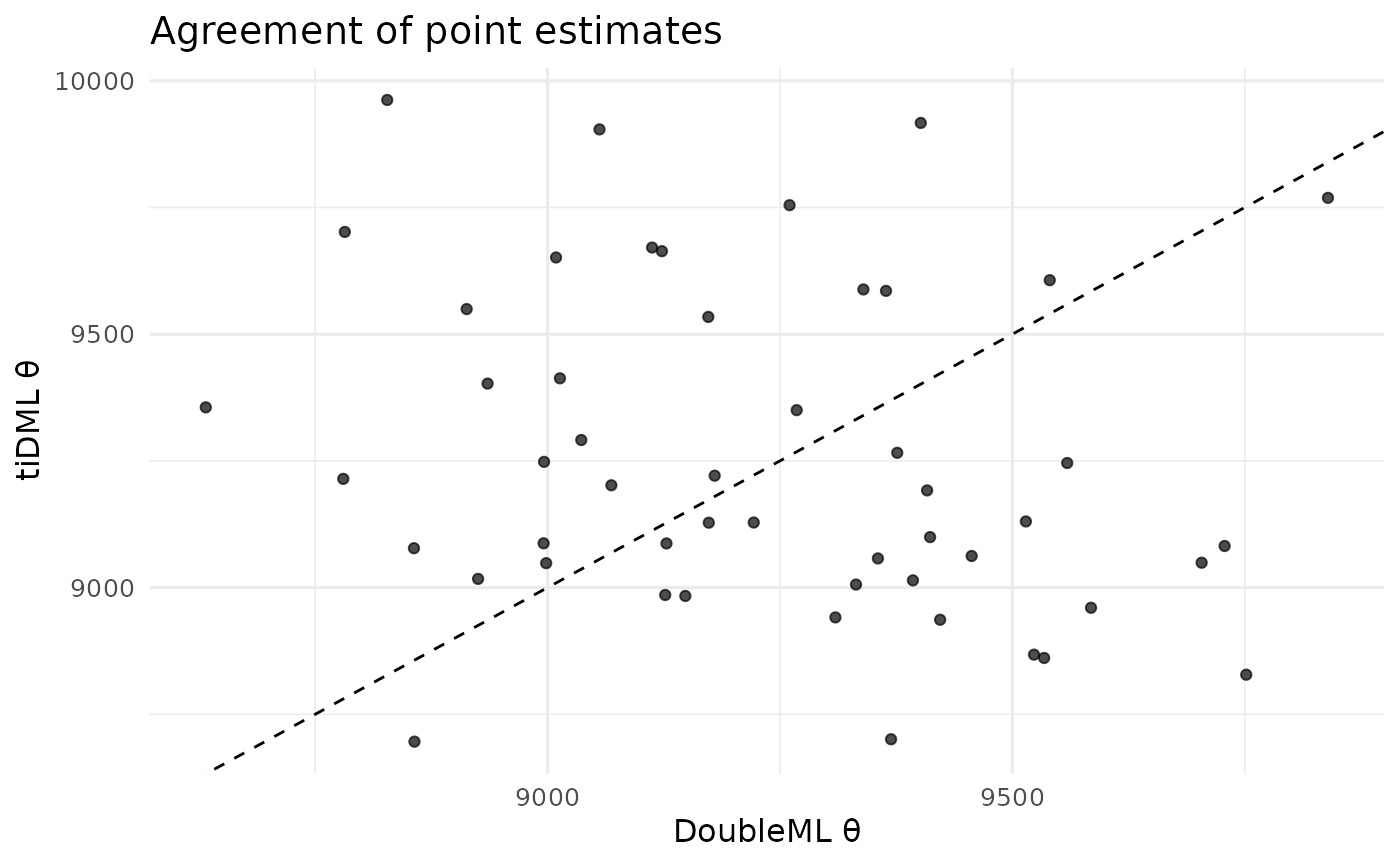
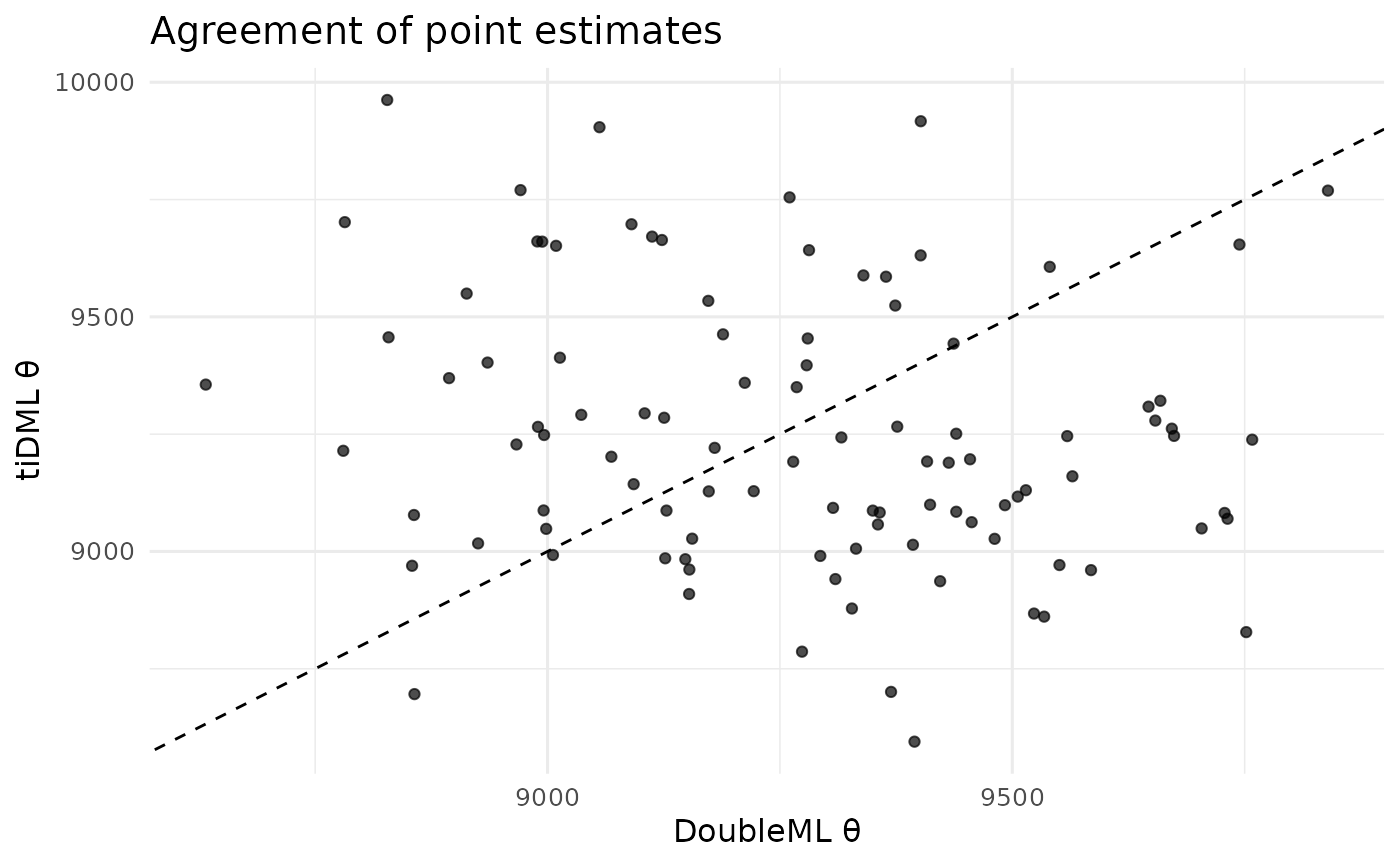
Deploying to gh-pages from @ jberesford-fe/tiDML@77b5a33b6616c6fd3b7dbd8730658f88724f5d0b 🚀

diff --git a/articles/package-replication.html b/articles/package-replication.html
@@ -39,7 +39,7 @@
   <button class="nav-link dropdown-toggle" type="button" id="dropdown-articles" data-bs-toggle="dropdown" aria-expanded="false" aria-haspopup="true">Articles</button>
   <ul class="dropdown-menu" aria-labelledby="dropdown-articles">
 <li><a class="dropdown-item" href="../articles/package-replication.html">Package Replication</a></li>
-    <li><a class="dropdown-item" href="../articles/Quick-start.html">Quick-start</a></li>
+    <li><a class="dropdown-item" href="../articles/Quick-start.html">Quick Start</a></li>
     <li><a class="dropdown-item" href="../articles/User-defined-recipies.html">User Defined Recipies</a></li>
   </ul>
 </li>
@@ -122,7 +122,7 @@
 <span>    <span class="op">)</span></span>
 <span></span>
 <span>  <span class="co">## DoubleML :: PLR with ranger</span></span>
-<span>  <span class="va">ml_g</span> <span class="op">&lt;-</span> <span class="fu"><a href="https://mlr3.mlr-org.com/reference/mlr_sugar.html" class="external-link">lrn</a></span><span class="op">(</span><span class="st">"regr.ranger"</span>,</span>
+<span>  <span class="va">ml_l</span> <span class="op">&lt;-</span> <span class="fu"><a href="https://mlr3.mlr-org.com/reference/mlr_sugar.html" class="external-link">lrn</a></span><span class="op">(</span><span class="st">"regr.ranger"</span>,</span>
 <span>              num.trees <span class="op">=</span> <span class="va">grid_trees</span>, num.threads <span class="op">=</span> <span class="fl">1</span>,</span>
 <span>              respect.unordered.factors <span class="op">=</span> <span class="st">"order"</span><span class="op">)</span></span>
 <span>  <span class="va">ml_m</span> <span class="op">&lt;-</span> <span class="fu"><a href="https://mlr3.mlr-org.com/reference/mlr_sugar.html" class="external-link">lrn</a></span><span class="op">(</span><span class="st">"regr.ranger"</span>,</span>
@@ -133,7 +133,7 @@
 <span>    data <span class="op">=</span> <span class="va">df</span>, y_col <span class="op">=</span> <span class="va">y</span>, d_cols <span class="op">=</span> <span class="va">d</span>, x_cols <span class="op">=</span> <span class="va">x</span></span>
 <span>  <span class="op">)</span></span>
 <span>  <span class="va">dml</span> <span class="op">&lt;-</span> <span class="va"><a href="https://rdrr.io/pkg/DoubleML/man/DoubleMLPLR.html" class="external-link">DoubleMLPLR</a></span><span class="op">$</span><span class="fu">new</span><span class="op">(</span></span>
-<span>    <span class="va">dml_data</span>, ml_g <span class="op">=</span> <span class="va">ml_g</span>, ml_m <span class="op">=</span> <span class="va">ml_m</span>,</span>
+<span>    <span class="va">dml_data</span>, ml_l <span class="op">=</span> <span class="va">ml_l</span>, ml_m <span class="op">=</span> <span class="va">ml_m</span>,</span>
 <span>    n_folds <span class="op">=</span> <span class="va">n_folds</span>, score <span class="op">=</span> <span class="st">"partialling out"</span></span>
 <span>  <span class="op">)</span></span>
 <span>  <span class="va">dml</span><span class="op">$</span><span class="fu">fit</span><span class="op">(</span><span class="op">)</span></span>
@@ -153,7 +153,7 @@
 <span></span>
 <span><span class="co"># Replications --------------------------------------------------------------</span></span>
 <span></span>
-<span><span class="va">replications</span> <span class="op">&lt;-</span> <span class="fl">50L</span></span>
+<span><span class="va">replications</span> <span class="op">&lt;-</span> <span class="fl">100L</span></span>
 <span></span>
 <span><span class="co"># Keep this small for CRAN; bump locally</span></span>
 <span><span class="va">seeds</span> <span class="op">&lt;-</span> <span class="fl">401</span> <span class="op">+</span> <span class="fl">0</span><span class="op">:</span><span class="va">replications</span><span class="op">-</span><span class="fl">1</span>  <span class="co"># 10 reps for vignette speed</span></span>
@@ -161,108 +161,6 @@
 <span>  <span class="va">seeds</span>,</span>
 <span>  <span class="op">~</span> <span class="fu">run_rep</span><span class="op">(</span><span class="va">.x</span>, df <span class="op">=</span> <span class="va">df401k</span>, y <span class="op">=</span> <span class="va">y_col</span>, d <span class="op">=</span> <span class="va">d_col</span>, x <span class="op">=</span> <span class="va">x_cols</span><span class="op">)</span></span>
 <span><span class="op">)</span></span>
-<span><span class="co">#&gt; Warning: The argument ml_g was renamed to ml_l. Please adapt the argument name accordingly. ml_g is redirected to ml_l.</span></span>
-<span><span class="co">#&gt; The redirection will be removed in a future version.</span></span>
-<span><span class="co">#&gt; Warning: The argument ml_g was renamed to ml_l. Please adapt the argument name accordingly. ml_g is redirected to ml_l.</span></span>
-<span><span class="co">#&gt; The redirection will be removed in a future version.</span></span>
-<span><span class="co">#&gt; Warning: The argument ml_g was renamed to ml_l. Please adapt the argument name accordingly. ml_g is redirected to ml_l.</span></span>
-<span><span class="co">#&gt; The redirection will be removed in a future version.</span></span>
-<span><span class="co">#&gt; Warning: The argument ml_g was renamed to ml_l. Please adapt the argument name accordingly. ml_g is redirected to ml_l.</span></span>
-<span><span class="co">#&gt; The redirection will be removed in a future version.</span></span>
-<span><span class="co">#&gt; Warning: The argument ml_g was renamed to ml_l. Please adapt the argument name accordingly. ml_g is redirected to ml_l.</span></span>
-<span><span class="co">#&gt; The redirection will be removed in a future version.</span></span>
-<span><span class="co">#&gt; Warning: The argument ml_g was renamed to ml_l. Please adapt the argument name accordingly. ml_g is redirected to ml_l.</span></span>
-<span><span class="co">#&gt; The redirection will be removed in a future version.</span></span>
-<span><span class="co">#&gt; Warning: The argument ml_g was renamed to ml_l. Please adapt the argument name accordingly. ml_g is redirected to ml_l.</span></span>
-<span><span class="co">#&gt; The redirection will be removed in a future version.</span></span>
-<span><span class="co">#&gt; Warning: The argument ml_g was renamed to ml_l. Please adapt the argument name accordingly. ml_g is redirected to ml_l.</span></span>
-<span><span class="co">#&gt; The redirection will be removed in a future version.</span></span>
-<span><span class="co">#&gt; Warning: The argument ml_g was renamed to ml_l. Please adapt the argument name accordingly. ml_g is redirected to ml_l.</span></span>
-<span><span class="co">#&gt; The redirection will be removed in a future version.</span></span>
-<span><span class="co">#&gt; Warning: The argument ml_g was renamed to ml_l. Please adapt the argument name accordingly. ml_g is redirected to ml_l.</span></span>
-<span><span class="co">#&gt; The redirection will be removed in a future version.</span></span>
-<span><span class="co">#&gt; Warning: The argument ml_g was renamed to ml_l. Please adapt the argument name accordingly. ml_g is redirected to ml_l.</span></span>
-<span><span class="co">#&gt; The redirection will be removed in a future version.</span></span>
-<span><span class="co">#&gt; Warning: The argument ml_g was renamed to ml_l. Please adapt the argument name accordingly. ml_g is redirected to ml_l.</span></span>
-<span><span class="co">#&gt; The redirection will be removed in a future version.</span></span>
-<span><span class="co">#&gt; Warning: The argument ml_g was renamed to ml_l. Please adapt the argument name accordingly. ml_g is redirected to ml_l.</span></span>
-<span><span class="co">#&gt; The redirection will be removed in a future version.</span></span>
-<span><span class="co">#&gt; Warning: The argument ml_g was renamed to ml_l. Please adapt the argument name accordingly. ml_g is redirected to ml_l.</span></span>
-<span><span class="co">#&gt; The redirection will be removed in a future version.</span></span>
-<span><span class="co">#&gt; Warning: The argument ml_g was renamed to ml_l. Please adapt the argument name accordingly. ml_g is redirected to ml_l.</span></span>
-<span><span class="co">#&gt; The redirection will be removed in a future version.</span></span>
-<span><span class="co">#&gt; Warning: The argument ml_g was renamed to ml_l. Please adapt the argument name accordingly. ml_g is redirected to ml_l.</span></span>
-<span><span class="co">#&gt; The redirection will be removed in a future version.</span></span>
-<span><span class="co">#&gt; Warning: The argument ml_g was renamed to ml_l. Please adapt the argument name accordingly. ml_g is redirected to ml_l.</span></span>
-<span><span class="co">#&gt; The redirection will be removed in a future version.</span></span>
-<span><span class="co">#&gt; Warning: The argument ml_g was renamed to ml_l. Please adapt the argument name accordingly. ml_g is redirected to ml_l.</span></span>
-<span><span class="co">#&gt; The redirection will be removed in a future version.</span></span>
-<span><span class="co">#&gt; Warning: The argument ml_g was renamed to ml_l. Please adapt the argument name accordingly. ml_g is redirected to ml_l.</span></span>
-<span><span class="co">#&gt; The redirection will be removed in a future version.</span></span>
-<span><span class="co">#&gt; Warning: The argument ml_g was renamed to ml_l. Please adapt the argument name accordingly. ml_g is redirected to ml_l.</span></span>
-<span><span class="co">#&gt; The redirection will be removed in a future version.</span></span>
-<span><span class="co">#&gt; Warning: The argument ml_g was renamed to ml_l. Please adapt the argument name accordingly. ml_g is redirected to ml_l.</span></span>
-<span><span class="co">#&gt; The redirection will be removed in a future version.</span></span>
-<span><span class="co">#&gt; Warning: The argument ml_g was renamed to ml_l. Please adapt the argument name accordingly. ml_g is redirected to ml_l.</span></span>
-<span><span class="co">#&gt; The redirection will be removed in a future version.</span></span>
-<span><span class="co">#&gt; Warning: The argument ml_g was renamed to ml_l. Please adapt the argument name accordingly. ml_g is redirected to ml_l.</span></span>
-<span><span class="co">#&gt; The redirection will be removed in a future version.</span></span>
-<span><span class="co">#&gt; Warning: The argument ml_g was renamed to ml_l. Please adapt the argument name accordingly. ml_g is redirected to ml_l.</span></span>
-<span><span class="co">#&gt; The redirection will be removed in a future version.</span></span>
-<span><span class="co">#&gt; Warning: The argument ml_g was renamed to ml_l. Please adapt the argument name accordingly. ml_g is redirected to ml_l.</span></span>
-<span><span class="co">#&gt; The redirection will be removed in a future version.</span></span>
-<span><span class="co">#&gt; Warning: The argument ml_g was renamed to ml_l. Please adapt the argument name accordingly. ml_g is redirected to ml_l.</span></span>
-<span><span class="co">#&gt; The redirection will be removed in a future version.</span></span>
-<span><span class="co">#&gt; Warning: The argument ml_g was renamed to ml_l. Please adapt the argument name accordingly. ml_g is redirected to ml_l.</span></span>
-<span><span class="co">#&gt; The redirection will be removed in a future version.</span></span>
-<span><span class="co">#&gt; Warning: The argument ml_g was renamed to ml_l. Please adapt the argument name accordingly. ml_g is redirected to ml_l.</span></span>
-<span><span class="co">#&gt; The redirection will be removed in a future version.</span></span>
-<span><span class="co">#&gt; Warning: The argument ml_g was renamed to ml_l. Please adapt the argument name accordingly. ml_g is redirected to ml_l.</span></span>
-<span><span class="co">#&gt; The redirection will be removed in a future version.</span></span>
-<span><span class="co">#&gt; Warning: The argument ml_g was renamed to ml_l. Please adapt the argument name accordingly. ml_g is redirected to ml_l.</span></span>
-<span><span class="co">#&gt; The redirection will be removed in a future version.</span></span>
-<span><span class="co">#&gt; Warning: The argument ml_g was renamed to ml_l. Please adapt the argument name accordingly. ml_g is redirected to ml_l.</span></span>
-<span><span class="co">#&gt; The redirection will be removed in a future version.</span></span>
-<span><span class="co">#&gt; Warning: The argument ml_g was renamed to ml_l. Please adapt the argument name accordingly. ml_g is redirected to ml_l.</span></span>
-<span><span class="co">#&gt; The redirection will be removed in a future version.</span></span>
-<span><span class="co">#&gt; Warning: The argument ml_g was renamed to ml_l. Please adapt the argument name accordingly. ml_g is redirected to ml_l.</span></span>
-<span><span class="co">#&gt; The redirection will be removed in a future version.</span></span>
-<span><span class="co">#&gt; Warning: The argument ml_g was renamed to ml_l. Please adapt the argument name accordingly. ml_g is redirected to ml_l.</span></span>
-<span><span class="co">#&gt; The redirection will be removed in a future version.</span></span>
-<span><span class="co">#&gt; Warning: The argument ml_g was renamed to ml_l. Please adapt the argument name accordingly. ml_g is redirected to ml_l.</span></span>
-<span><span class="co">#&gt; The redirection will be removed in a future version.</span></span>
-<span><span class="co">#&gt; Warning: The argument ml_g was renamed to ml_l. Please adapt the argument name accordingly. ml_g is redirected to ml_l.</span></span>
-<span><span class="co">#&gt; The redirection will be removed in a future version.</span></span>
-<span><span class="co">#&gt; Warning: The argument ml_g was renamed to ml_l. Please adapt the argument name accordingly. ml_g is redirected to ml_l.</span></span>
-<span><span class="co">#&gt; The redirection will be removed in a future version.</span></span>
-<span><span class="co">#&gt; Warning: The argument ml_g was renamed to ml_l. Please adapt the argument name accordingly. ml_g is redirected to ml_l.</span></span>
-<span><span class="co">#&gt; The redirection will be removed in a future version.</span></span>
-<span><span class="co">#&gt; Warning: The argument ml_g was renamed to ml_l. Please adapt the argument name accordingly. ml_g is redirected to ml_l.</span></span>
-<span><span class="co">#&gt; The redirection will be removed in a future version.</span></span>
-<span><span class="co">#&gt; Warning: The argument ml_g was renamed to ml_l. Please adapt the argument name accordingly. ml_g is redirected to ml_l.</span></span>
-<span><span class="co">#&gt; The redirection will be removed in a future version.</span></span>
-<span><span class="co">#&gt; Warning: The argument ml_g was renamed to ml_l. Please adapt the argument name accordingly. ml_g is redirected to ml_l.</span></span>
-<span><span class="co">#&gt; The redirection will be removed in a future version.</span></span>
-<span><span class="co">#&gt; Warning: The argument ml_g was renamed to ml_l. Please adapt the argument name accordingly. ml_g is redirected to ml_l.</span></span>
-<span><span class="co">#&gt; The redirection will be removed in a future version.</span></span>
-<span><span class="co">#&gt; Warning: The argument ml_g was renamed to ml_l. Please adapt the argument name accordingly. ml_g is redirected to ml_l.</span></span>
-<span><span class="co">#&gt; The redirection will be removed in a future version.</span></span>
-<span><span class="co">#&gt; Warning: The argument ml_g was renamed to ml_l. Please adapt the argument name accordingly. ml_g is redirected to ml_l.</span></span>
-<span><span class="co">#&gt; The redirection will be removed in a future version.</span></span>
-<span><span class="co">#&gt; Warning: The argument ml_g was renamed to ml_l. Please adapt the argument name accordingly. ml_g is redirected to ml_l.</span></span>
-<span><span class="co">#&gt; The redirection will be removed in a future version.</span></span>
-<span><span class="co">#&gt; Warning: The argument ml_g was renamed to ml_l. Please adapt the argument name accordingly. ml_g is redirected to ml_l.</span></span>
-<span><span class="co">#&gt; The redirection will be removed in a future version.</span></span>
-<span><span class="co">#&gt; Warning: The argument ml_g was renamed to ml_l. Please adapt the argument name accordingly. ml_g is redirected to ml_l.</span></span>
-<span><span class="co">#&gt; The redirection will be removed in a future version.</span></span>
-<span><span class="co">#&gt; Warning: The argument ml_g was renamed to ml_l. Please adapt the argument name accordingly. ml_g is redirected to ml_l.</span></span>
-<span><span class="co">#&gt; The redirection will be removed in a future version.</span></span>
-<span><span class="co">#&gt; Warning: The argument ml_g was renamed to ml_l. Please adapt the argument name accordingly. ml_g is redirected to ml_l.</span></span>
-<span><span class="co">#&gt; The redirection will be removed in a future version.</span></span>
-<span><span class="co">#&gt; Warning: The argument ml_g was renamed to ml_l. Please adapt the argument name accordingly. ml_g is redirected to ml_l.</span></span>
-<span><span class="co">#&gt; The redirection will be removed in a future version.</span></span>
-<span><span class="co">#&gt; Warning: The argument ml_g was renamed to ml_l. Please adapt the argument name accordingly. ml_g is redirected to ml_l.</span></span>
-<span><span class="co">#&gt; The redirection will be removed in a future version.</span></span>
 <span></span>
 <span><span class="co"># Overlap share per replication</span></span>
 <span><span class="va">overlap_by_seed</span> <span class="op">&lt;-</span> <span class="va">res</span> <span class="op">|&gt;</span></span>

diff --git a/articles/Quick-start.html b/articles/Quick-start.html
@@ -5,7 +5,7 @@
 <meta charset="utf-8">
 <meta http-equiv="X-UA-Compatible" content="IE=edge">
 <meta name="viewport" content="width=device-width, initial-scale=1, shrink-to-fit=no">
-<title>Quick-start • tiDML</title>
+<title>Quick Start • tiDML</title>
 <!-- favicons --><link rel="icon" type="image/png" sizes="96x96" href="../favicon-96x96.png">
 <link rel="icon" type="”image/svg+xml”" href="../favicon.svg">
 <link rel="apple-touch-icon" sizes="180x180" href="../apple-touch-icon.png">
@@ -15,7 +15,7 @@
 <link href="../deps/bootstrap-5.3.1/bootstrap.min.css" rel="stylesheet">
 <script src="../deps/bootstrap-5.3.1/bootstrap.bundle.min.js"></script><link href="../deps/font-awesome-6.5.2/css/all.min.css" rel="stylesheet">
 <link href="../deps/font-awesome-6.5.2/css/v4-shims.min.css" rel="stylesheet">
-<script src="../deps/headroom-0.11.0/headroom.min.js"></script><script src="../deps/headroom-0.11.0/jQuery.headroom.min.js"></script><script src="../deps/bootstrap-toc-1.0.1/bootstrap-toc.min.js"></script><script src="../deps/clipboard.js-2.0.11/clipboard.min.js"></script><script src="../deps/search-1.0.0/autocomplete.jquery.min.js"></script><script src="../deps/search-1.0.0/fuse.min.js"></script><script src="../deps/search-1.0.0/mark.min.js"></script><!-- pkgdown --><script src="../pkgdown.js"></script><meta property="og:title" content="Quick-start">
+<script src="../deps/headroom-0.11.0/headroom.min.js"></script><script src="../deps/headroom-0.11.0/jQuery.headroom.min.js"></script><script src="../deps/bootstrap-toc-1.0.1/bootstrap-toc.min.js"></script><script src="../deps/clipboard.js-2.0.11/clipboard.min.js"></script><script src="../deps/search-1.0.0/autocomplete.jquery.min.js"></script><script src="../deps/search-1.0.0/fuse.min.js"></script><script src="../deps/search-1.0.0/mark.min.js"></script><!-- pkgdown --><script src="../pkgdown.js"></script><meta property="og:title" content="Quick Start">
 </head>
 <body>
     <a href="#main" class="visually-hidden-focusable">Skip to contents</a>
@@ -39,7 +39,7 @@
   <button class="nav-link dropdown-toggle" type="button" id="dropdown-articles" data-bs-toggle="dropdown" aria-expanded="false" aria-haspopup="true">Articles</button>
   <ul class="dropdown-menu" aria-labelledby="dropdown-articles">
 <li><a class="dropdown-item" href="../articles/package-replication.html">Package Replication</a></li>
-    <li><a class="dropdown-item" href="../articles/Quick-start.html">Quick-start</a></li>
+    <li><a class="dropdown-item" href="../articles/Quick-start.html">Quick Start</a></li>
     <li><a class="dropdown-item" href="../articles/User-defined-recipies.html">User Defined Recipies</a></li>
   </ul>
 </li>
@@ -60,7 +60,7 @@
 
 <div class="row">
   <main id="main" class="col-md-9"><div class="page-header">
-      <img src="../logo.png" class="logo" alt=""><h1>Quick-start</h1>
+      <img src="../logo.png" class="logo" alt=""><h1>Quick Start</h1>
             
       
 

diff --git a/articles/index.html b/articles/index.html
@@ -19,7 +19,7 @@
 <li class="nav-item dropdown">
   <button class="nav-link dropdown-toggle" type="button" id="dropdown-articles" data-bs-toggle="dropdown" aria-expanded="false" aria-haspopup="true">Articles</button>
   <ul class="dropdown-menu" aria-labelledby="dropdown-articles"><li><a class="dropdown-item" href="../articles/package-replication.html">Package Replication</a></li>
-    <li><a class="dropdown-item" href="../articles/Quick-start.html">Quick-start</a></li>
+    <li><a class="dropdown-item" href="../articles/Quick-start.html">Quick Start</a></li>
     <li><a class="dropdown-item" href="../articles/User-defined-recipies.html">User Defined Recipies</a></li>
   </ul></li>
       </ul><ul class="navbar-nav"><li class="nav-item"><form class="form-inline" role="search">
@@ -40,7 +40,7 @@
 
       <dl><dt><a href="package-replication.html">Package Replication</a></dt>
         <dd>
-        </dd><dt><a href="Quick-start.html">Quick-start</a></dt>
+        </dd><dt><a href="Quick-start.html">Quick Start</a></dt>
         <dd>
         </dd><dt><a href="User-defined-recipies.html">User Defined Recipies</a></dt>
         <dd>

diff --git a/reference/base_recipe.html b/reference/base_recipe.html
@@ -19,7 +19,7 @@
 <li class="nav-item dropdown">
   <button class="nav-link dropdown-toggle" type="button" id="dropdown-articles" data-bs-toggle="dropdown" aria-expanded="false" aria-haspopup="true">Articles</button>
   <ul class="dropdown-menu" aria-labelledby="dropdown-articles"><li><a class="dropdown-item" href="../articles/package-replication.html">Package Replication</a></li>
-    <li><a class="dropdown-item" href="../articles/Quick-start.html">Quick-start</a></li>
+    <li><a class="dropdown-item" href="../articles/Quick-start.html">Quick Start</a></li>
     <li><a class="dropdown-item" href="../articles/User-defined-recipies.html">User Defined Recipies</a></li>
   </ul></li>
       </ul><ul class="navbar-nav"><li class="nav-item"><form class="form-inline" role="search">

diff --git a/reference/crossfit_residuals.html b/reference/crossfit_residuals.html
@@ -19,7 +19,7 @@
 <li class="nav-item dropdown">
   <button class="nav-link dropdown-toggle" type="button" id="dropdown-articles" data-bs-toggle="dropdown" aria-expanded="false" aria-haspopup="true">Articles</button>
   <ul class="dropdown-menu" aria-labelledby="dropdown-articles"><li><a class="dropdown-item" href="../articles/package-replication.html">Package Replication</a></li>
-    <li><a class="dropdown-item" href="../articles/Quick-start.html">Quick-start</a></li>
+    <li><a class="dropdown-item" href="../articles/Quick-start.html">Quick Start</a></li>
     <li><a class="dropdown-item" href="../articles/User-defined-recipies.html">User Defined Recipies</a></li>
   </ul></li>
       </ul><ul class="navbar-nav"><li class="nav-item"><form class="form-inline" role="search">

diff --git a/reference/dml_plr.html b/reference/dml_plr.html
@@ -19,7 +19,7 @@
 <li class="nav-item dropdown">
   <button class="nav-link dropdown-toggle" type="button" id="dropdown-articles" data-bs-toggle="dropdown" aria-expanded="false" aria-haspopup="true">Articles</button>
   <ul class="dropdown-menu" aria-labelledby="dropdown-articles"><li><a class="dropdown-item" href="../articles/package-replication.html">Package Replication</a></li>
-    <li><a class="dropdown-item" href="../articles/Quick-start.html">Quick-start</a></li>
+    <li><a class="dropdown-item" href="../articles/Quick-start.html">Quick Start</a></li>
     <li><a class="dropdown-item" href="../articles/User-defined-recipies.html">User Defined Recipies</a></li>
   </ul></li>
       </ul><ul class="navbar-nav"><li class="nav-item"><form class="form-inline" role="search">

diff --git a/reference/index.html b/reference/index.html
@@ -19,7 +19,7 @@
 <li class="nav-item dropdown">
   <button class="nav-link dropdown-toggle" type="button" id="dropdown-articles" data-bs-toggle="dropdown" aria-expanded="false" aria-haspopup="true">Articles</button>
   <ul class="dropdown-menu" aria-labelledby="dropdown-articles"><li><a class="dropdown-item" href="../articles/package-replication.html">Package Replication</a></li>
-    <li><a class="dropdown-item" href="../articles/Quick-start.html">Quick-start</a></li>
+    <li><a class="dropdown-item" href="../articles/Quick-start.html">Quick Start</a></li>
     <li><a class="dropdown-item" href="../articles/User-defined-recipies.html">User Defined Recipies</a></li>
   </ul></li>
       </ul><ul class="navbar-nav"><li class="nav-item"><form class="form-inline" role="search">

diff --git a/reference/load_example_data.html b/reference/load_example_data.html
@@ -19,7 +19,7 @@
 <li class="nav-item dropdown">
   <button class="nav-link dropdown-toggle" type="button" id="dropdown-articles" data-bs-toggle="dropdown" aria-expanded="false" aria-haspopup="true">Articles</button>
   <ul class="dropdown-menu" aria-labelledby="dropdown-articles"><li><a class="dropdown-item" href="../articles/package-replication.html">Package Replication</a></li>
-    <li><a class="dropdown-item" href="../articles/Quick-start.html">Quick-start</a></li>
+    <li><a class="dropdown-item" href="../articles/Quick-start.html">Quick Start</a></li>
     <li><a class="dropdown-item" href="../articles/User-defined-recipies.html">User Defined Recipies</a></li>
   </ul></li>
       </ul><ul class="navbar-nav"><li class="nav-item"><form class="form-inline" role="search">

diff --git a/reference/numeric_pred.html b/reference/numeric_pred.html
@@ -19,7 +19,7 @@
 <li class="nav-item dropdown">
   <button class="nav-link dropdown-toggle" type="button" id="dropdown-articles" data-bs-toggle="dropdown" aria-expanded="false" aria-haspopup="true">Articles</button>
   <ul class="dropdown-menu" aria-labelledby="dropdown-articles"><li><a class="dropdown-item" href="../articles/package-replication.html">Package Replication</a></li>
-    <li><a class="dropdown-item" href="../articles/Quick-start.html">Quick-start</a></li>
+    <li><a class="dropdown-item" href="../articles/Quick-start.html">Quick Start</a></li>
     <li><a class="dropdown-item" href="../articles/User-defined-recipies.html">User Defined Recipies</a></li>
   </ul></li>
       </ul><ul class="navbar-nav"><li class="nav-item"><form class="form-inline" role="search">

diff --git a/reference/resolve_engine.html b/reference/resolve_engine.html
@@ -19,7 +19,7 @@
 <li class="nav-item dropdown">
   <button class="nav-link dropdown-toggle" type="button" id="dropdown-articles" data-bs-toggle="dropdown" aria-expanded="false" aria-haspopup="true">Articles</button>
   <ul class="dropdown-menu" aria-labelledby="dropdown-articles"><li><a class="dropdown-item" href="../articles/package-replication.html">Package Replication</a></li>
-    <li><a class="dropdown-item" href="../articles/Quick-start.html">Quick-start</a></li>
+    <li><a class="dropdown-item" href="../articles/Quick-start.html">Quick Start</a></li>
     <li><a class="dropdown-item" href="../articles/User-defined-recipies.html">User Defined Recipies</a></li>
   </ul></li>
       </ul><ul class="navbar-nav"><li class="nav-item"><form class="form-inline" role="search">

diff --git a/reference/resolve_recipe_factory.html b/reference/resolve_recipe_factory.html
@@ -19,7 +19,7 @@
 <li class="nav-item dropdown">
   <button class="nav-link dropdown-toggle" type="button" id="dropdown-articles" data-bs-toggle="dropdown" aria-expanded="false" aria-haspopup="true">Articles</button>
   <ul class="dropdown-menu" aria-labelledby="dropdown-articles"><li><a class="dropdown-item" href="../articles/package-replication.html">Package Replication</a></li>
-    <li><a class="dropdown-item" href="../articles/Quick-start.html">Quick-start</a></li>
+    <li><a class="dropdown-item" href="../articles/Quick-start.html">Quick Start</a></li>
     <li><a class="dropdown-item" href="../articles/User-defined-recipies.html">User Defined Recipies</a></li>
   </ul></li>
       </ul><ul class="navbar-nav"><li class="nav-item"><form class="form-inline" role="search">

diff --git a/reference/resolve_spec.html b/reference/resolve_spec.html
@@ -19,7 +19,7 @@
 <li class="nav-item dropdown">
   <button class="nav-link dropdown-toggle" type="button" id="dropdown-articles" data-bs-toggle="dropdown" aria-expanded="false" aria-haspopup="true">Articles</button>
   <ul class="dropdown-menu" aria-labelledby="dropdown-articles"><li><a class="dropdown-item" href="../articles/package-replication.html">Package Replication</a></li>
-    <li><a class="dropdown-item" href="../articles/Quick-start.html">Quick-start</a></li>
+    <li><a class="dropdown-item" href="../articles/Quick-start.html">Quick Start</a></li>
     <li><a class="dropdown-item" href="../articles/User-defined-recipies.html">User Defined Recipies</a></li>
   </ul></li>
       </ul><ul class="navbar-nav"><li class="nav-item"><form class="form-inline" role="search">
